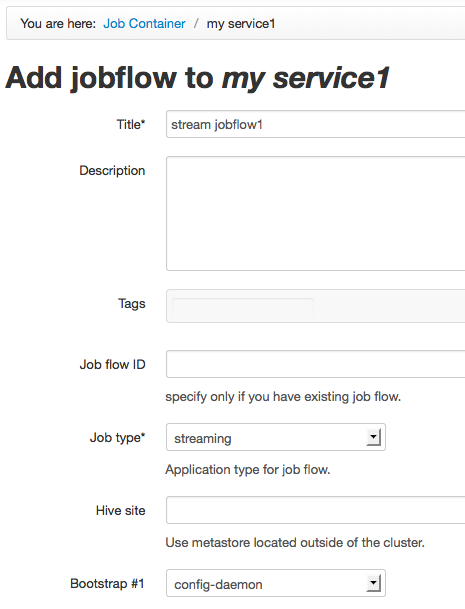
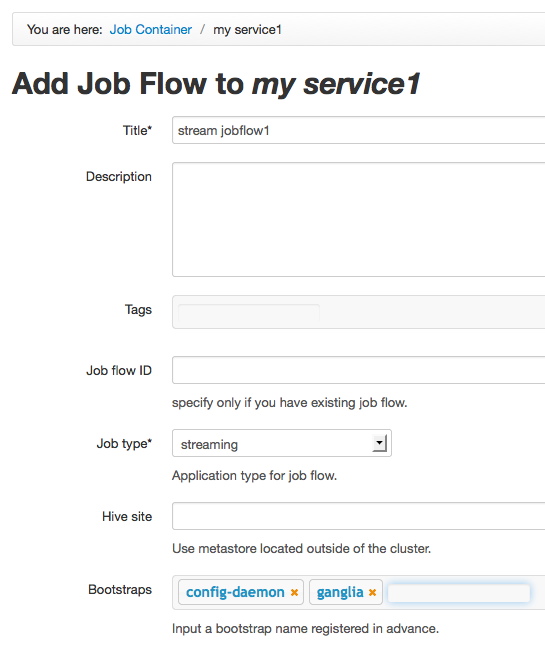
updated tutorial about bootstrap configuration

diff --git a/docs/tutorial.rst b/docs/tutorial.rst
@@ -19,7 +19,7 @@ First of all, create a Job Container.
 
 You can see an Edit page for Job Container. Then, input for a title
 what you like and click `save` button. Sorry, `Cloud vendor` is
-only accepted `aws`.
+only accepted `aws` in current version.
 
 .. figure:: _static/k2.png
     :alt: Create Job Container
@@ -164,7 +164,8 @@ This step is a `Word Count Example`_.
 
     Create Job Step
 
-Back to upper job flow after you created a job step.
+Select `Job Step` link to add another job step. Or, back to upper job flow
+after you created a job step.
 
 .. figure:: _static/k14.png
     :alt: Created Job Step
@@ -172,7 +173,10 @@ Back to upper job flow after you created a job step.
 
     Created Job Step
 
-You can see a `Run Jobflow` button. It means all settings are completed.
+You can confirm information about job flow by clicking `Resource Info`,
+`Bootstrap Info` and `Unexecuted Step Info` button.
+
+Now, `Run Jobflow` button is appeared. It means all settings are completed.
 
 .. figure:: _static/k15.png
     :alt: Run Job Flow
